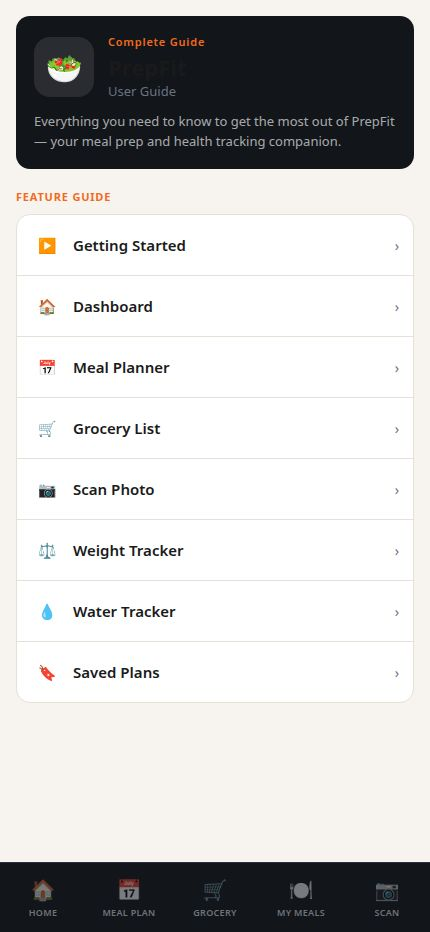
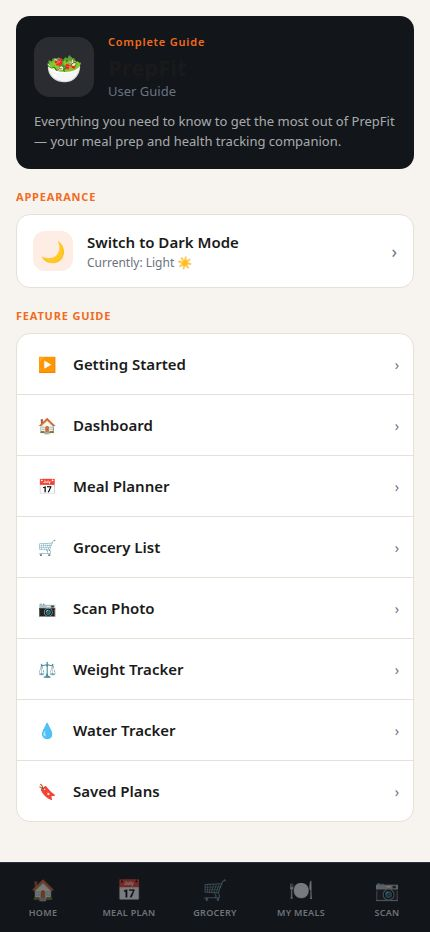
Move dark mode toggle to the user guide screen
Relocates the theme toggle from the app bar to the user guide screen and updates styling and screenshots.

Replit-Commit-Author: Agent
Replit-Commit-Session-Id: 366c8a42-eaa5-40fb-9545-b218c470b2f4
Replit-Commit-Checkpoint-Type: full_checkpoint
Replit-Commit-Event-Id: baf01ad5-f901-4062-8315-f97da9c5bd16
Replit-Commit-Screenshot-Url: https://storage.googleapis.com/screenshot-production-us-central1/840360d6-55f0-4f6a-9af5-ecb5804a7758/366c8a42-eaa5-40fb-9545-b218c470b2f4/HEihHMb
Replit-Helium-Checkpoint-Created: true

diff --git a/artifacts/prepfit-android/app/(tabs)/guide.tsx b/artifacts/prepfit-android/app/(tabs)/guide.tsx
@@ -9,6 +9,7 @@ import {
   View,
 } from "react-native";
 import { useColors } from "@/hooks/useColors";
+import { useTheme } from "@/lib/theme";
 
 type AccordionSection = {
   title: string;
@@ -92,6 +93,7 @@ function AccordionItem({ section }: { section: AccordionSection }) {
 
 export default function GuideScreen() {
   const colors = useColors();
+  const { resolvedTheme, toggleTheme } = useTheme();
   const s = styles(colors);
 
   return (
@@ -124,6 +126,29 @@ export default function GuideScreen() {
           <AccordionItem key={section.title} section={section} />
         ))}
       </View>
+
+      {/* Theme toggle */}
+      <Text style={s.sectionLabel}>Appearance</Text>
+      <Pressable style={s.themeToggleRow} onPress={toggleTheme}>
+        <View style={s.themeToggleLeft}>
+          <View style={s.themeIconWrap}>
+            <Feather
+              name={resolvedTheme === "dark" ? "sun" : "moon"}
+              size={18}
+              color={colors.primary}
+            />
+          </View>
+          <View>
+            <Text style={s.themeToggleTitle}>
+              {resolvedTheme === "dark" ? "Switch to Light Mode" : "Switch to Dark Mode"}
+            </Text>
+            <Text style={s.themeToggleSub}>
+              Currently: {resolvedTheme === "dark" ? "Dark 🌙" : "Light ☀"}
+            </Text>
+          </View>
+        </View>
+        <Feather name="chevron-right" size={18} color={colors.mutedForeground} />
+      </Pressable>
 
       <View style={{ height: 40 }} />
     </ScrollView>
@@ -238,6 +263,42 @@ const styles = (colors: ReturnType<typeof useColors>) =>
       borderWidth: 1,
       borderColor: colors.border,
       overflow: "hidden",
+    },
+
+    themeToggleRow: {
+      marginHorizontal: 16,
+      backgroundColor: colors.card,
+      borderRadius: colors.radius,
+      borderWidth: 1,
+      borderColor: colors.border,
+      padding: 16,
+      flexDirection: "row",
+      alignItems: "center",
+      justifyContent: "space-between",
+    },
+    themeToggleLeft: {
+      flexDirection: "row",
+      alignItems: "center",
+      gap: 14,
+    },
+    themeIconWrap: {
+      width: 40,
+      height: 40,
+      borderRadius: 12,
+      backgroundColor: colors.accent,
+      alignItems: "center",
+      justifyContent: "center",
+    },
+    themeToggleTitle: {
+      fontSize: 15,
+      fontFamily: "Inter_600SemiBold",
+      color: colors.foreground,
+    },
+    themeToggleSub: {
+      fontSize: 12,
+      fontFamily: "Inter_400Regular",
+      color: colors.mutedForeground,
+      marginTop: 2,
     },
 
     supportCard: {

diff --git a/artifacts/meal-prep/public/app-screens.html b/artifacts/meal-prep/public/app-screens.html
@@ -500,6 +500,20 @@
   /* ═══════════════════════════════════════════════════════
      SCREEN 9 — USER GUIDE
   ═══════════════════════════════════════════════════════ */
+  .theme-toggle-row {
+    margin: 0 16px; background: #fff; border-radius: 14px;
+    border: 1px solid #E5E0D8; padding: 16px;
+    display: flex; align-items: center; justify-content: space-between;
+  }
+  .theme-toggle-left { display: flex; align-items: center; gap: 14px; }
+  .theme-icon-wrap {
+    width: 40px; height: 40px; border-radius: 12px;
+    background: rgba(242,107,29,0.12);
+    display: flex; align-items: center; justify-content: center; font-size: 20px;
+  }
+  .theme-toggle-title { font-size: 15px; font-weight: 600; color: #1A1A1A; }
+  .theme-toggle-sub { font-size: 12px; color: #6B7280; margin-top: 2px; }
+
   .guide-hero {
     background: var(--sidebar);
     margin: 16px 16px 0; border-radius: var(--radius); padding: 18px;
@@ -1280,6 +1294,18 @@
         </div>
       </div>
       <div class="guide-desc">Everything you need to know to get the most out of PrepFit — your meal prep and health tracking companion.</div>
+    </div>
+
+    <div class="guide-section">Appearance</div>
+    <div class="theme-toggle-row">
+      <div class="theme-toggle-left">
+        <div class="theme-icon-wrap">🌙</div>
+        <div>
+          <div class="theme-toggle-title">Switch to Dark Mode</div>
+          <div class="theme-toggle-sub">Currently: Light ☀</div>
+        </div>
+      </div>
+      <div style="color:#6B7280;font-size:18px">›</div>
     </div>
 
     <div class="guide-section">Feature Guide</div>

diff --git a/artifacts/prepfit-android/app/(tabs)/_layout.tsx b/artifacts/prepfit-android/app/(tabs)/_layout.tsx
@@ -1,20 +1,17 @@
-import { Feather } from "@expo/vector-icons";
 import { Tabs } from "expo-router";
 import { StatusBar } from "expo-status-bar";
 import React from "react";
-import { Image, Pressable, StyleSheet, Text, View } from "react-native";
+import { Image, StyleSheet, Text, View } from "react-native";
 import { useSafeAreaInsets } from "react-native-safe-area-context";
 import { DemoBanner } from "@/components/DemoBanner";
 import { TrialBanner } from "@/components/TrialBanner";
 import { ScrollableTabBar } from "@/components/ScrollableTabBar";
 import { AuthGate } from "@/components/AuthGate";
 import { useColors } from "@/hooks/useColors";
-import { useTheme } from "@/lib/theme";
 
 const ORANGE = "#F26B1D";
 
 function AppBar() {
-  const { resolvedTheme, toggleTheme } = useTheme();
   const insets = useSafeAreaInsets();
 
   return (
@@ -31,13 +28,6 @@ function AppBar() {
             <Text style={s.brandSub}>Simple Meal Prep · Gym & Fitness</Text>
           </View>
         </View>
-        <Pressable onPress={toggleTheme} hitSlop={14} style={s.toggleBtn}>
-          <Feather
-            name={resolvedTheme === "dark" ? "sun" : "moon"}
-            size={20}
-            color="#fff"
-          />
-        </Pressable>
       </View>
     </View>
   );
@@ -107,13 +97,5 @@ const s = StyleSheet.create({
     fontFamily: "Inter_400Regular",
     color: "rgba(255,255,255,0.82)",
     marginTop: 1,
-  },
-  toggleBtn: {
-    width: 40,
-    height: 40,
-    borderRadius: 12,
-    backgroundColor: "rgba(255,255,255,0.22)",
-    alignItems: "center",
-    justifyContent: "center",
   },
 });
